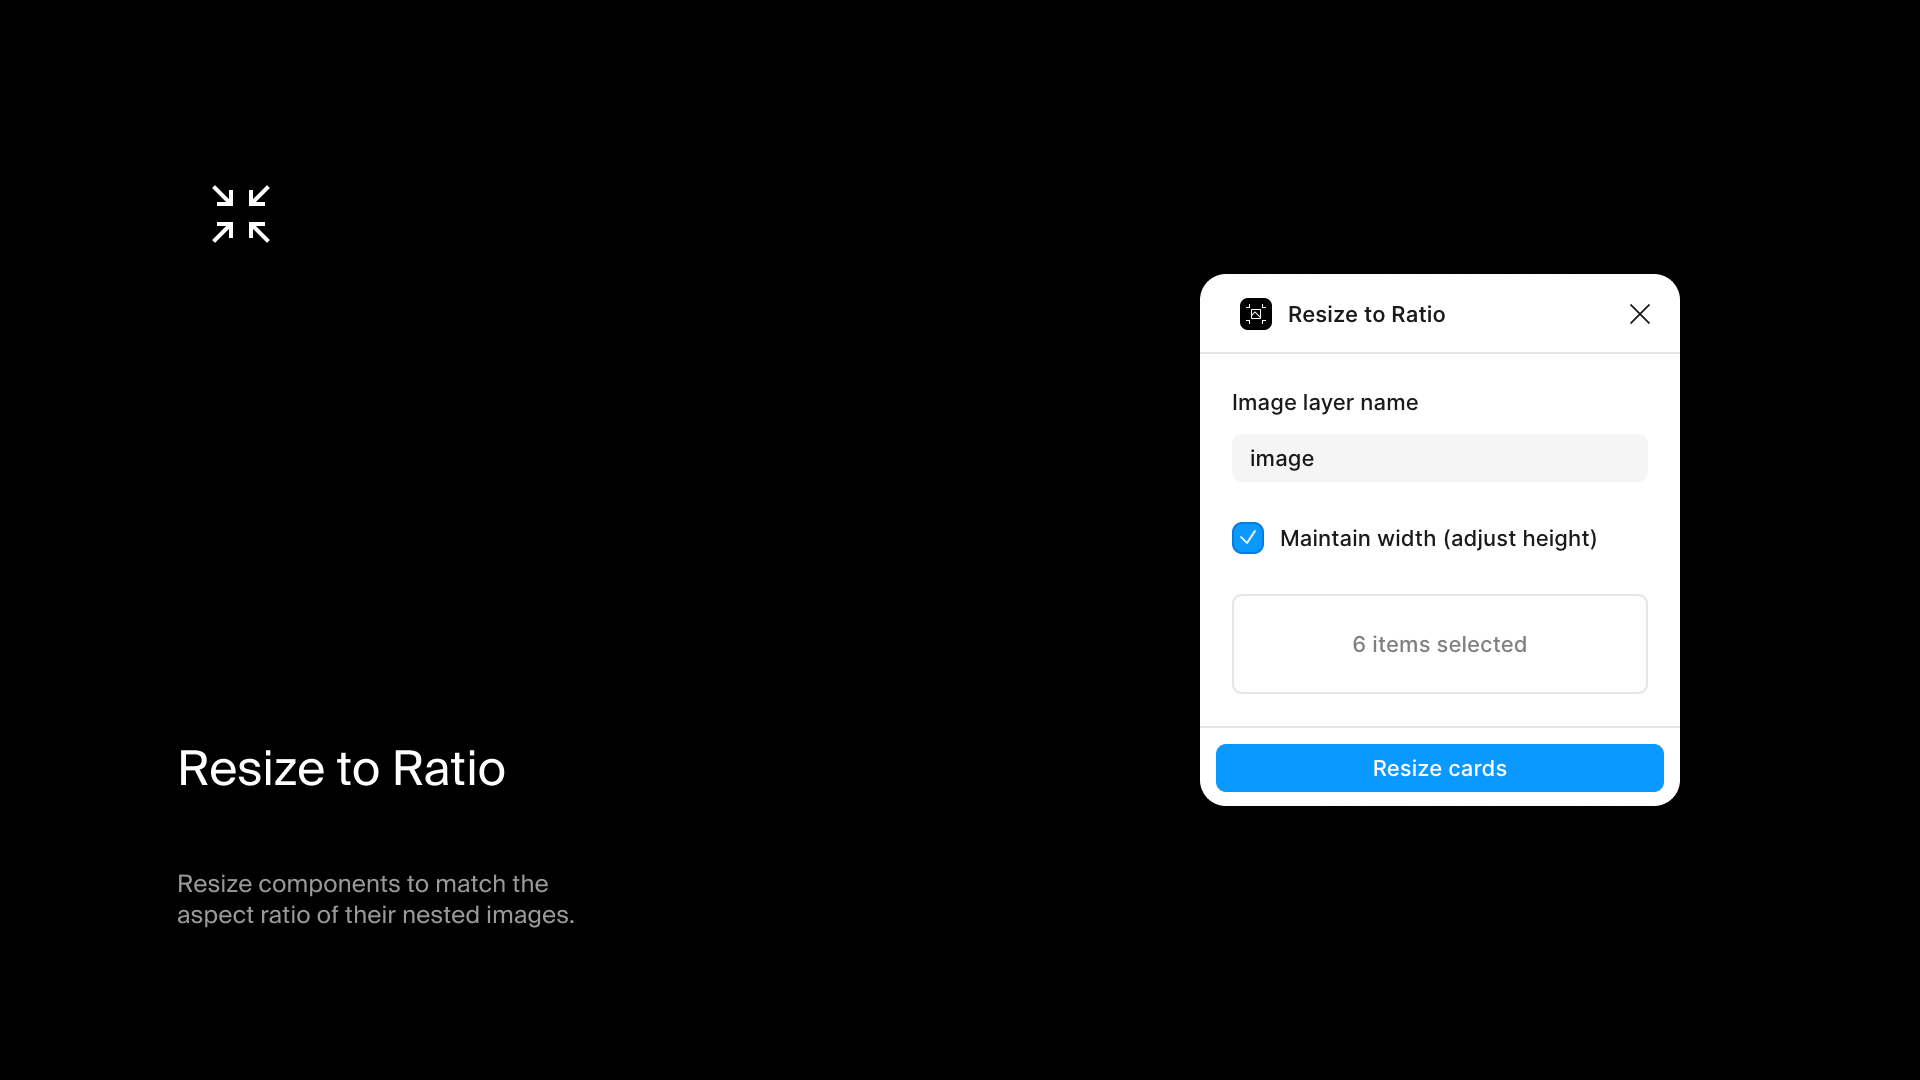
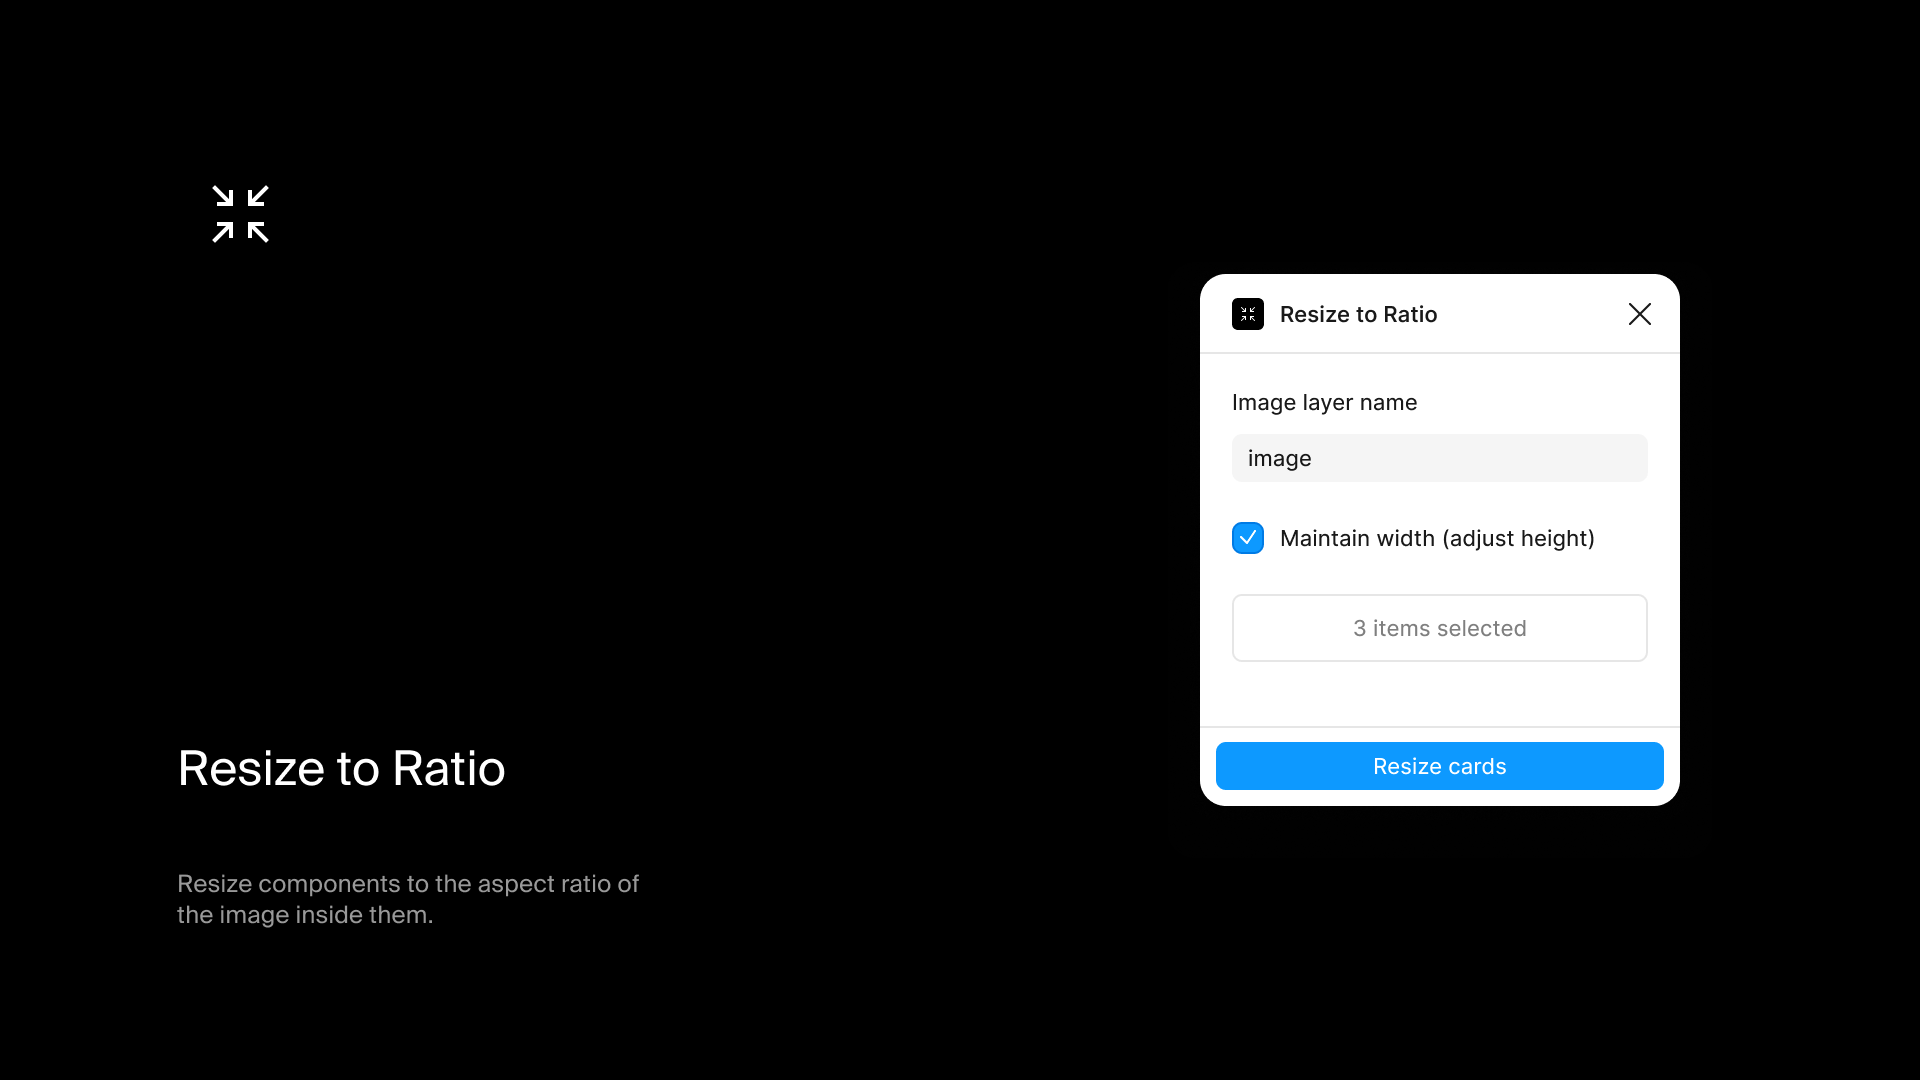
docs(resize-to-ratio): add the user guide, cover and Notion page

diff --git a/docs/GUIDE.md b/docs/GUIDE.md
@@ -1,0 +1,19 @@
+# Resize to Ratio
+
+Resize to Ratio fits each card you select to the image inside it. For example, a card with a landscape photo in a square image area gets shorter, until the image area has the photo's shape. The plugin reads the size of each image file, so every card fits its own image.
+
+## Resize cards
+
+![](resize-to-ratio-main.svg)
+
+Select one or more cards, then run the plugin. A card can be a component, an instance or a frame.
+
+1. **Image layer name** — the layer inside each card that has the image fill, `image` by default. Upper and lower case don't matter.
+2. **Maintain width (adjust height)** — keeps each card's width and changes its height. Clear it to keep the height and change the width.
+3. **items selected** — how many layers you selected. With nothing selected, it reads **Select one or more cards**.
+
+Click **Resize cards** to resize every selected card. With **Maintain width** checked, the rest of the card keeps its height, so the text under the image stays as it is. Press Ctrl/Cmd+Z to undo. The plugin remembers the layer name and the checkbox for your next run.
+
+The plugin resizes the card, not the image layer. If the image doesn't change size with the card, set the image layer to **Fill container** in auto layout, or to **Left and right** and **Top and bottom** constraints.
+
+If the plugin says no cards were resized, check the layer name, and check that the layer has an image fill. The plugin uses the first layer with that name in each card, so give the image layer a name no other layer in the card has. If it skips a card because the image isn't loaded, wait for the image to appear, then run it again.

diff --git a/README.md b/README.md
@@ -14,21 +14,17 @@ Adjusts the dimensions of selected components based on the natural aspect ratio 
 
 ## Usage
 
-1. Select one or more component instances containing an image layer
+1. Select one or more cards that contain an image layer
 2. Run the plugin
-3. Specify the image layer name (default: `image`)
-4. Choose to maintain width or height
-5. Click resize
+3. Enter the name of the image layer (default: `image`)
+4. Keep **Maintain width** checked to change the height, or clear it to change the width
+5. Click **Resize cards**
 
-## Options
-
-- **Image layer name** — Name of the nested layer containing the image fill
-- **Maintain width** — Keep width fixed, adjust height to match ratio
-- **Maintain height** — Keep height fixed, adjust width to match ratio
+For each screen and what its controls do, see the [user guide](https://figma-plugins.notion.site/Resize-to-Ratio-3eef29c09c9d81b6925cc8c4e9da360c).
 
 ## Requirements
 
-- The image layer must use "Fill" for both width and height constraints.
+- The image layer must resize with its card: **Fill container** in auto layout, or **Left and right** and **Top and bottom** constraints.
 
 ## Development
 
